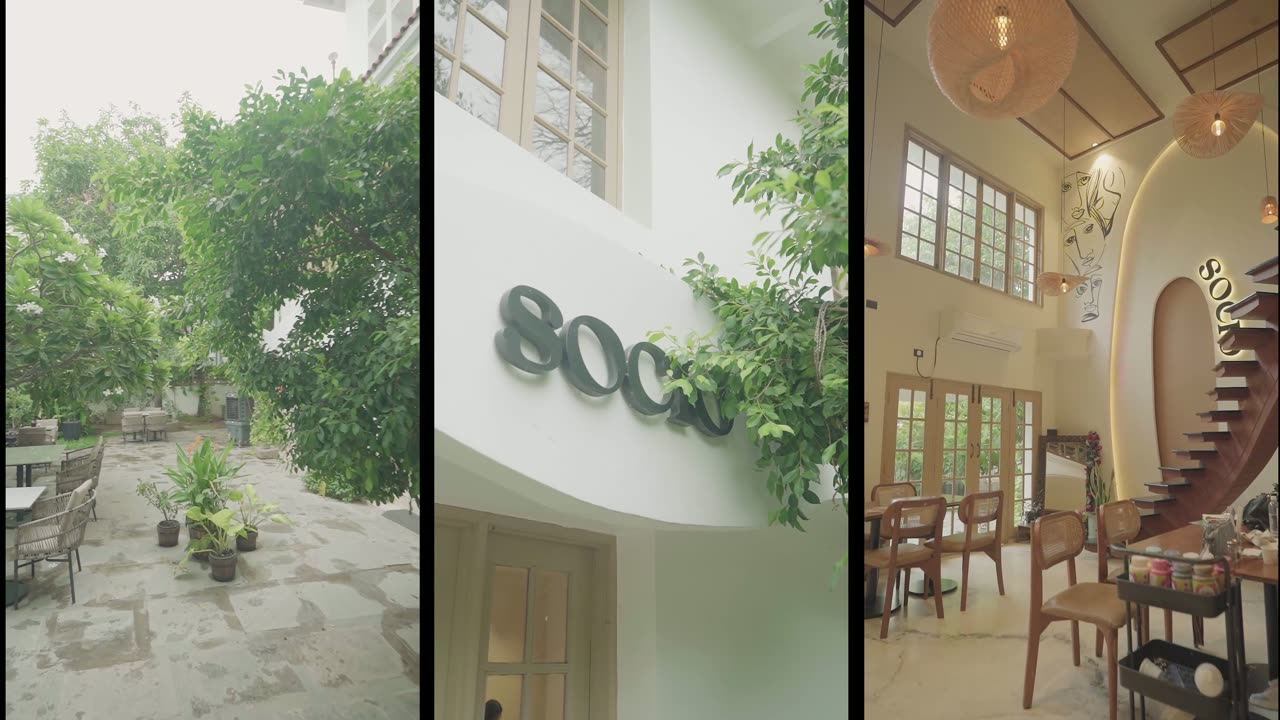
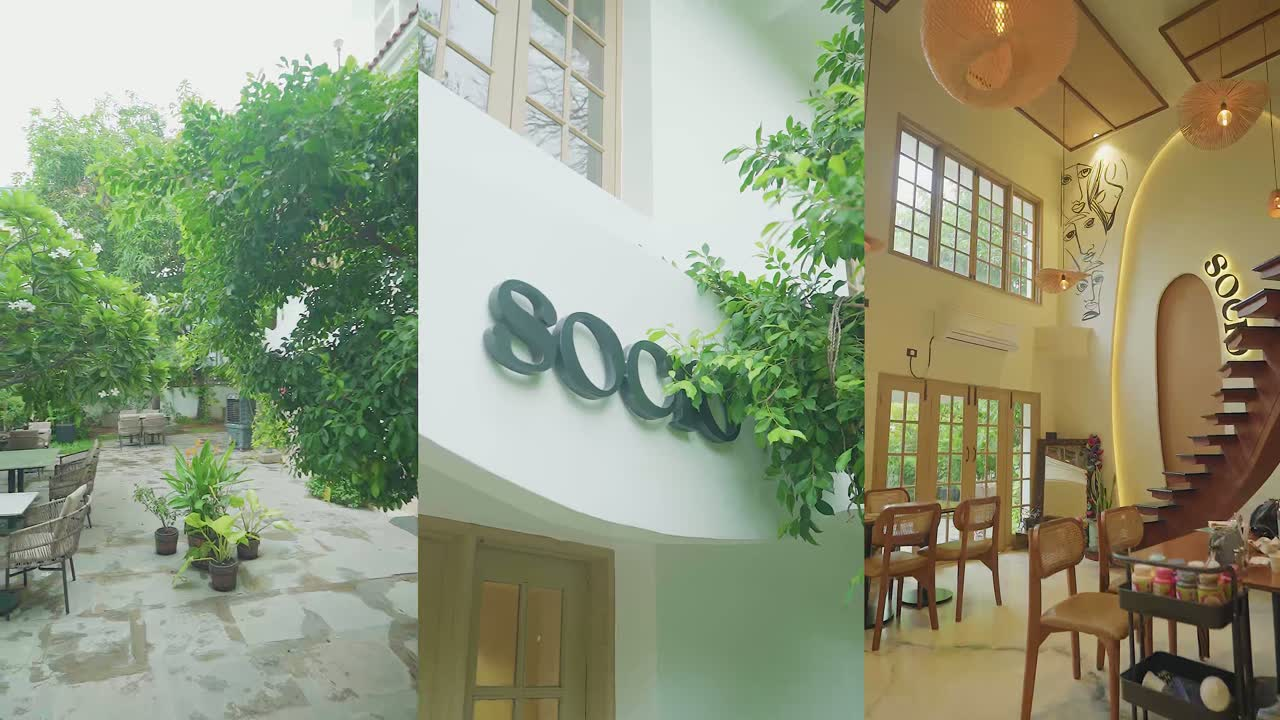
feat(Footer): update footer text and add designer credit

diff --git a/src/components/Footer.jsx b/src/components/Footer.jsx
@@ -34,9 +34,13 @@ export default function Footer() {
             ))}
           </nav>
         </div>
-        <div className="flex justify-between gap-4 flex-wrap pt-6 text-[0.84rem] text-[#8a7d68]">
-          <span>© {year} SOCIO. A second home, since 2022.</span>
+        <div className="flex justify-between items-center gap-4 flex-wrap pt-6 text-[0.84rem] text-[#8a7d68]">
+          <span>© {year} SOCIO. A second home.</span>
           <span>Made for the ones living beyond the 9-to-5.</span>
+          <span>
+            Designed &amp; developed by{' '}
+            <span className="font-medium text-ochre">Kreative Chaoss</span>
+          </span>
         </div>
       </Wrap>
     </footer>